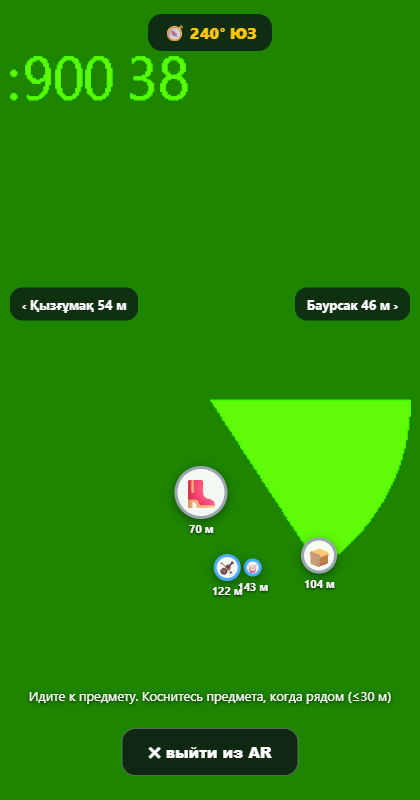
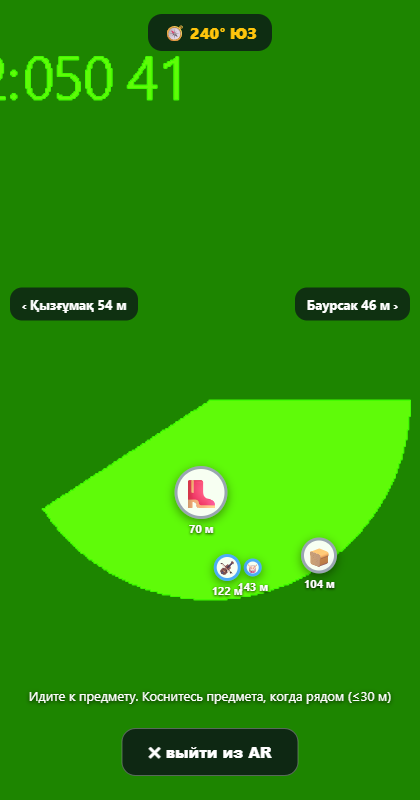
fix: AR button clickable, camera error screen with retry, auto-demo without GPS fix

diff --git a/js/main.js b/js/main.js
@@ -492,6 +492,8 @@ function onDeviceOrientation(e) {
   arHeading.t = Date.now();
 }
 async function ensureOrientationPermission() {
+  if (arOrientationAsked) return;
+  arOrientationAsked = true;
   try {
     if (typeof DeviceOrientationEvent !== 'undefined' && typeof DeviceOrientationEvent.requestPermission === 'function') {
       const r = await DeviceOrientationEvent.requestPermission(); // iOS: только по жесту пользователя
@@ -499,23 +501,50 @@ async function ensureOrientationPermission() {
     }
   } catch (e) { /* desktop — не критично */ }
 }
-async function openAR() {
-  if (arActive) return;
-  if (player.lat == null) { toast('Сначала начните игру (GPS или демо)', 'warn'); return; }
-  await ensureOrientationPermission();
-  const screen = $('ar-screen');
-  screen.classList.remove('hidden');
+let arOrientationAsked = false;
+function arErrorBox(err) {
+  const box = $('ar-error');
+  if (!err) { box.classList.add('hidden'); return; }
+  let msg;
+  if (err.name === 'NotAllowedError' || err.name === 'PermissionDeniedError') {
+    msg = 'Доступ к камере запрещён. На iPhone: значок 🔒 в адресной строке → «Камера» → «Разрешить» (или Настройки → Safari → Камера). Потом нажмите «Повторить».';
+  } else if (err.name === 'NotFoundError' || err.name === 'DevicesNotFoundError') {
+    msg = 'Камера на этом устройстве не найдена.';
+  } else if (err.name === 'NotReadableError' || err.name === 'TrackStartError' || err.name === 'OverconstrainedError') {
+    msg = 'Камера занята другим приложением. Закройте его и нажмите «Повторить».';
+  } else {
+    msg = 'Не удалось запустить камеру: ' + (err && err.name ? err.name : String(err));
+  }
+  box.innerHTML = '<div class="card"><b>📷 Камера не работает</b><br>' + msg +
+    '<div><button id="ar-error-retry">Повторить</button>' +
+    '<button id="ar-error-exit" class="ghost">Выйти</button></div></div>';
+  box.classList.remove('hidden');
+  $('ar-error-retry').onclick = () => arStartCamera();
+  $('ar-error-exit').onclick = () => closeAR();
+}
+async function arStartCamera() {
   try {
     arStream = await navigator.mediaDevices.getUserMedia({ video: { facingMode: 'environment' }, audio: false });
+    arErrorBox(null);
+    const v = $('ar-video');
+    v.srcObject = arStream;
+    v.play().catch(() => {});
+    if (!arActive) {
+      arActive = true;
+      window.addEventListener('deviceorientation', onDeviceOrientation);
+      requestAnimationFrame(arLoop);
+    }
   } catch (e) {
-    toast('Нет доступа к камере', 'warn');
-    screen.classList.add('hidden');
-    return;
+    arErrorBox(e);
   }
-  arActive = true;
-  $('ar-video').srcObject = arStream;
-  window.addEventListener('deviceorientation', onDeviceOrientation);
-  requestAnimationFrame(arLoop);
+}
+async function openAR() {
+  if (arActive) return;
+  if (player.lat == null) { startDemo(); toast('Позиция ещё не готова — включил демо-режим, идите джойстиком', 'info'); }
+  $('ar-screen').classList.remove('hidden');
+  arErrorBox(null);
+  await ensureOrientationPermission();
+  await arStartCamera();
 }
 function closeAR() {
   arActive = false;
@@ -527,6 +556,7 @@ function closeAR() {
   arItems = {};
   $('ar-edge-left').classList.add('hidden');
   $('ar-edge-right').classList.add('hidden');
+  arErrorBox(null);
   $('ar-screen').classList.add('hidden');
 }
 function ensureAREl(key, item) {

diff --git a/css/style.css b/css/style.css
@@ -18,7 +18,7 @@ html,body{height:100%;margin:0;overflow:hidden;background:var(--bg);
 #topbar{position:absolute;top:0;left:0;right:0;z-index:1000;display:flex;align-items:center;gap:8px;
   padding:8px 12px;pointer-events:none;
   background:linear-gradient(180deg,rgba(10,16,24,.95) 0%,rgba(10,16,24,.8) 70%,transparent 100%)}
-#topbar .logo,#topbar .lvl-badge,#topbar .lvl-name,#topbar .xp-wrap,#topbar #count,#topbar #mode-btn{pointer-events:auto}
+#topbar .logo,#topbar .lvl-badge,#topbar .lvl-name,#topbar .xp-wrap,#topbar #count,#topbar #mode-btn,#topbar #btn-ar{pointer-events:auto}
 .logo{font-weight:800;font-size:15px;letter-spacing:.5px;color:var(--gold);white-space:nowrap}
 .lvl-badge{background:var(--gold);color:#1a1405;font-weight:800;border-radius:8px;padding:2px 8px;font-size:13px;white-space:nowrap}
 .lvl-name{font-size:13px;font-weight:600;white-space:nowrap;overflow:hidden;text-overflow:ellipsis;max-width:90px}
@@ -147,6 +147,12 @@ html,body{height:100%;margin:0;overflow:hidden;background:var(--bg);
 #ar-compass{background:rgba(10,16,24,.75);padding:8px 16px;border-radius:14px;font-size:16px;font-weight:800;color:var(--gold)}
 #ar-hint{position:absolute;bottom:96px;left:0;right:0;text-align:center;font-size:13px;color:#fff;
   text-shadow:0 1px 4px #000;pointer-events:none;padding:0 20px}
+#ar-error{position:absolute;inset:0;display:flex;align-items:center;justify-content:center;padding:24px;z-index:5}
+#ar-error .card{background:rgba(8,13,19,.92);border:1px solid rgba(255,135,135,.5);border-radius:16px;
+  padding:18px 20px;max-width:340px;text-align:center;font-size:14px;line-height:1.45}
+#ar-error .card button{margin-top:14px;margin-right:8px;background:var(--gold);color:#1a1405;border:0;
+  padding:10px 18px;border-radius:12px;font-size:14px;font-weight:800;cursor:pointer}
+#ar-error .card button.ghost{background:rgba(255,255,255,.12);color:#fff;border:1px solid rgba(255,255,255,.3)}
 #btn-ar-close{position:absolute;bottom:24px;left:50%;transform:translateX(-50%);background:rgba(10,16,24,.8);
   border:1px solid rgba(255,255,255,.3);color:#fff;padding:12px 26px;border-radius:14px;font-size:15px;font-weight:800}
 #btn-ar{background:rgba(255,255,255,.12);border:1px solid rgba(255,255,255,.2);color:var(--text);

diff --git a/index.html b/index.html
@@ -46,6 +46,7 @@
     <div id="ar-edge-left" class="ar-edge hidden"></div>
     <div id="ar-edge-right" class="ar-edge hidden"></div>
     <div id="ar-hud"><div id="ar-compass">🧭 —</div></div>
+    <div id="ar-error" class="ar-error hidden"></div>
     <div id="ar-hint"></div>
     <button id="btn-ar-close">✖ выйти из AR</button>
   </div>
